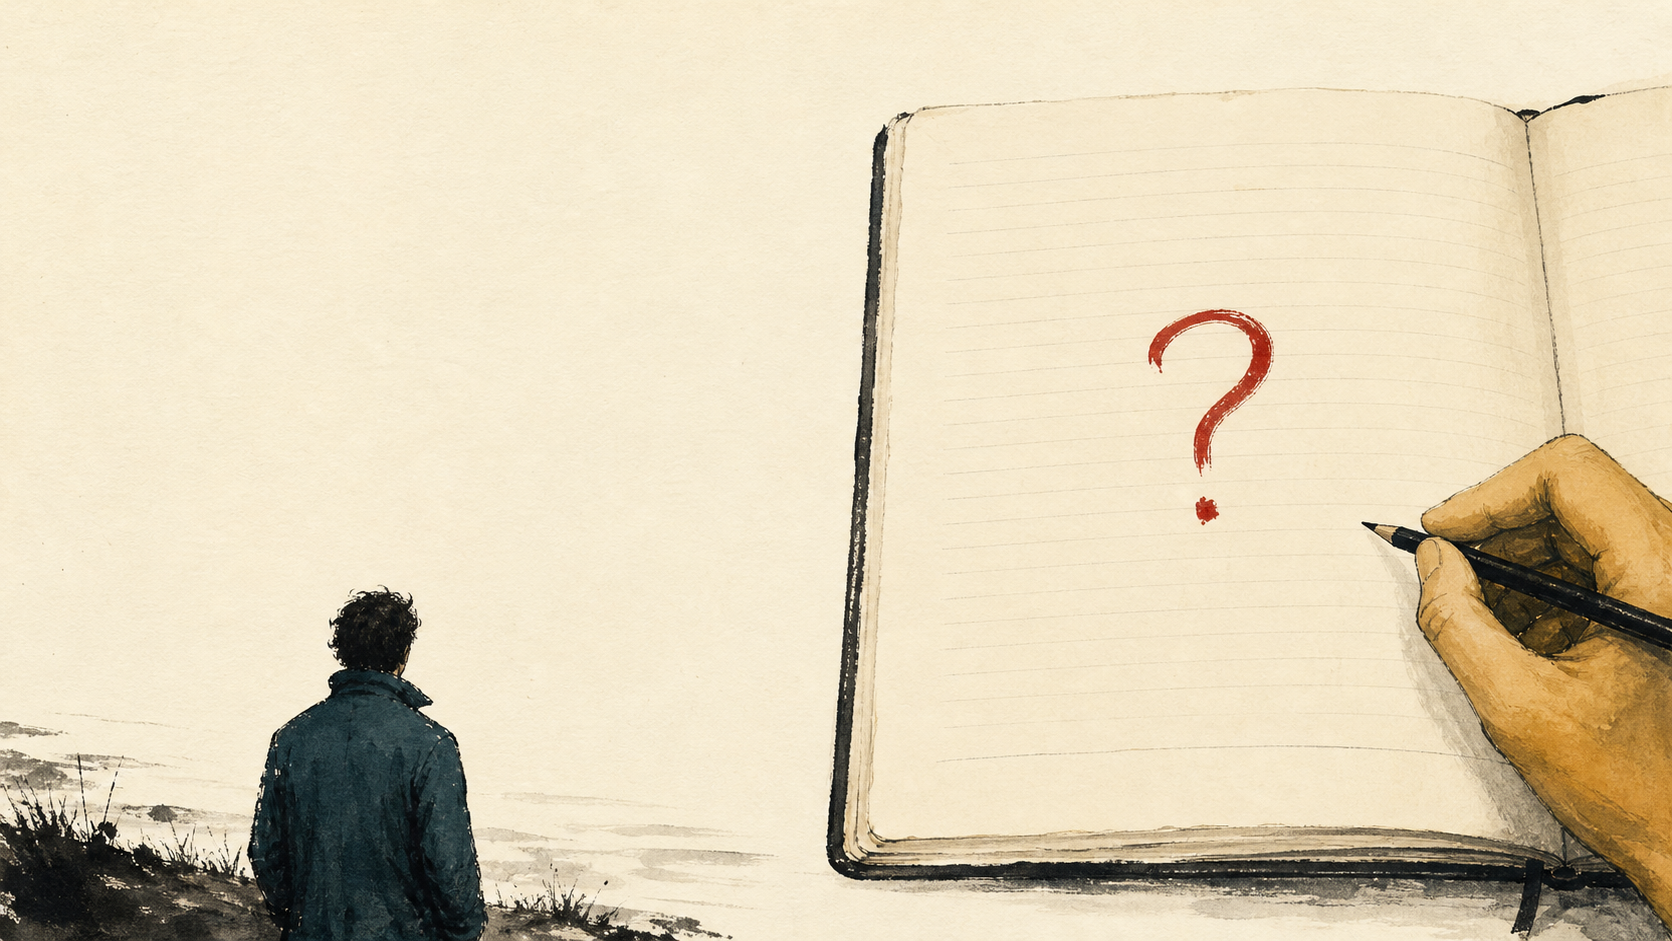
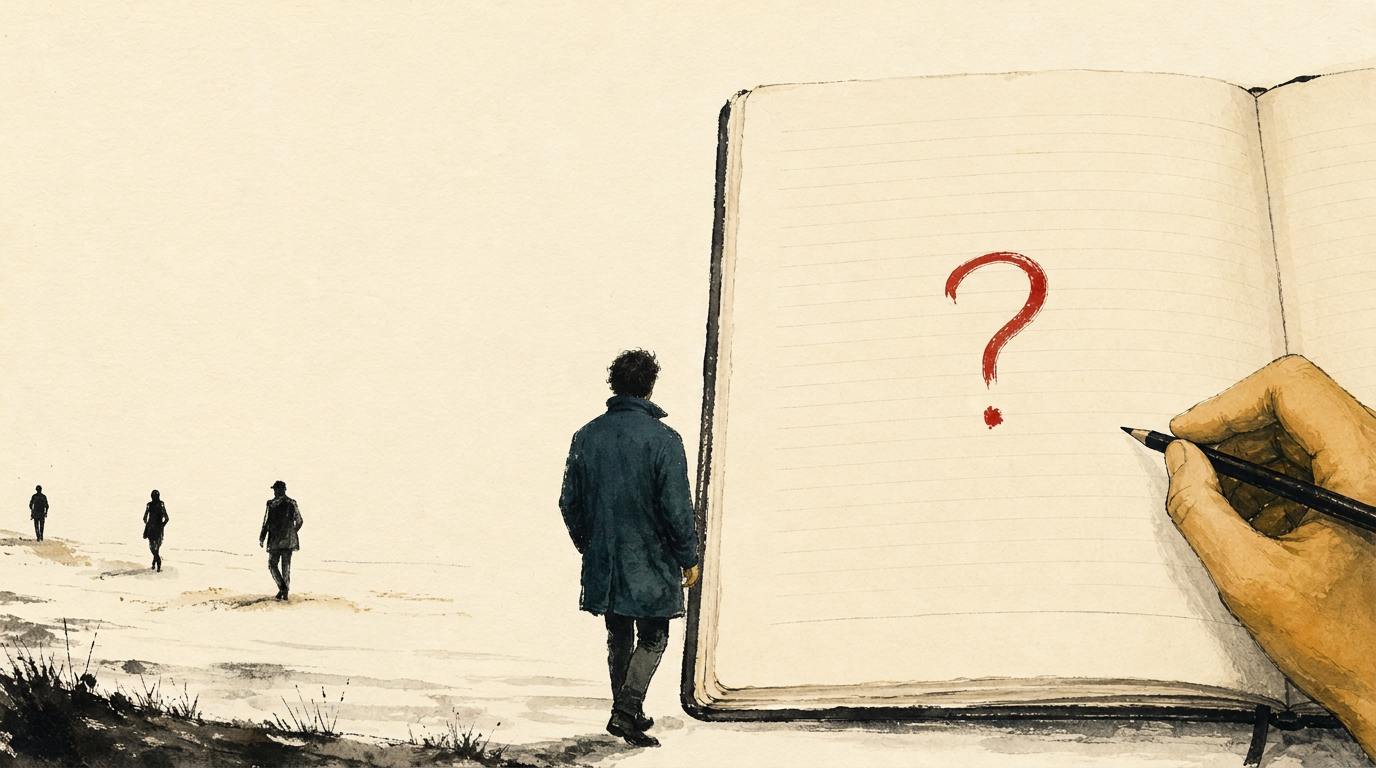
Polish the ending into one scene
The page, the next hand, and a few distant walkers share the same field.

diff --git a/public/practice-relay/index.html b/public/practice-relay/index.html
@@ -1,7 +1,7 @@
 <!doctype html>
 <html lang="en">
   <head>
-<script src="/practice-relay/theme-bridge.js?v=13"></script>
+<script src="/practice-relay/theme-bridge.js?v=14"></script>
 <link rel="stylesheet" href="/practice-relay/theme-bridge.css?v=10" />
 <script src="/practice-relay/eye-engine.js"></script>
     <meta charset="UTF-8" />
